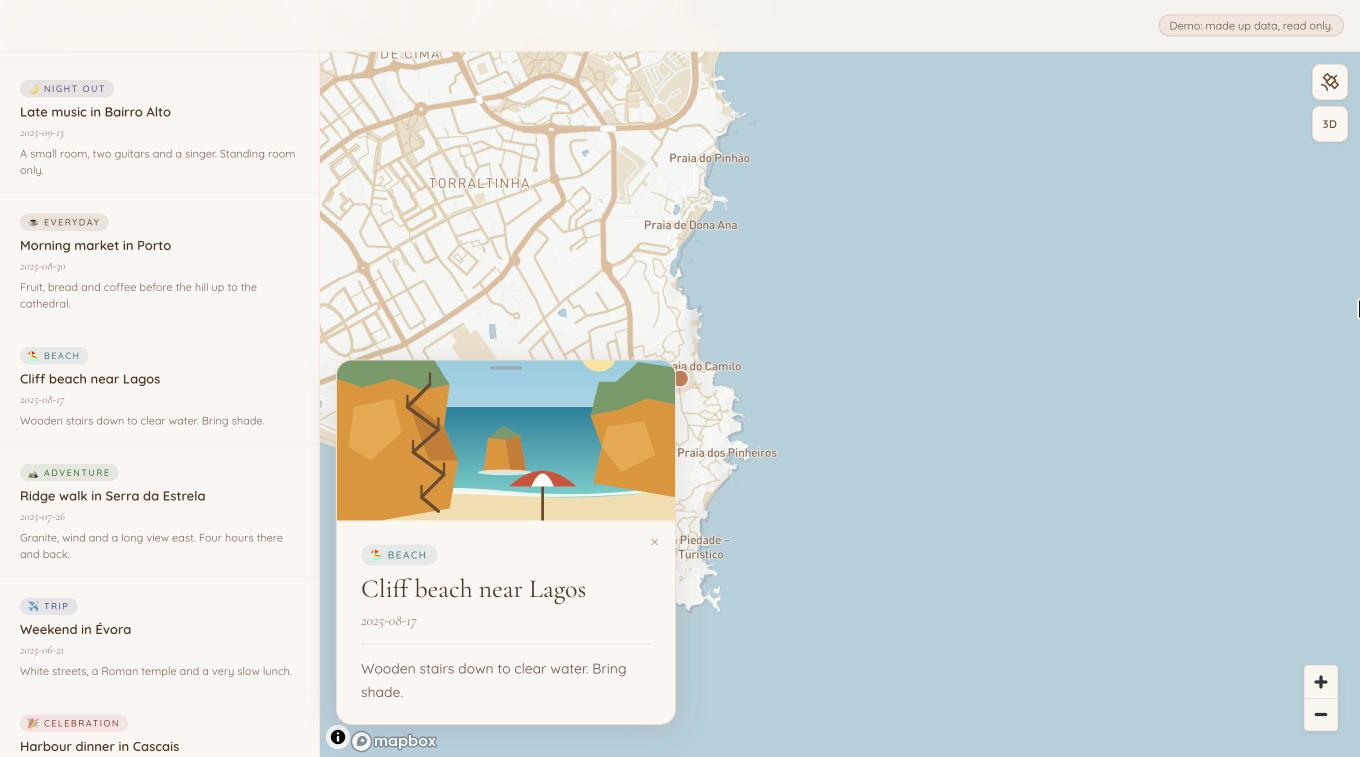
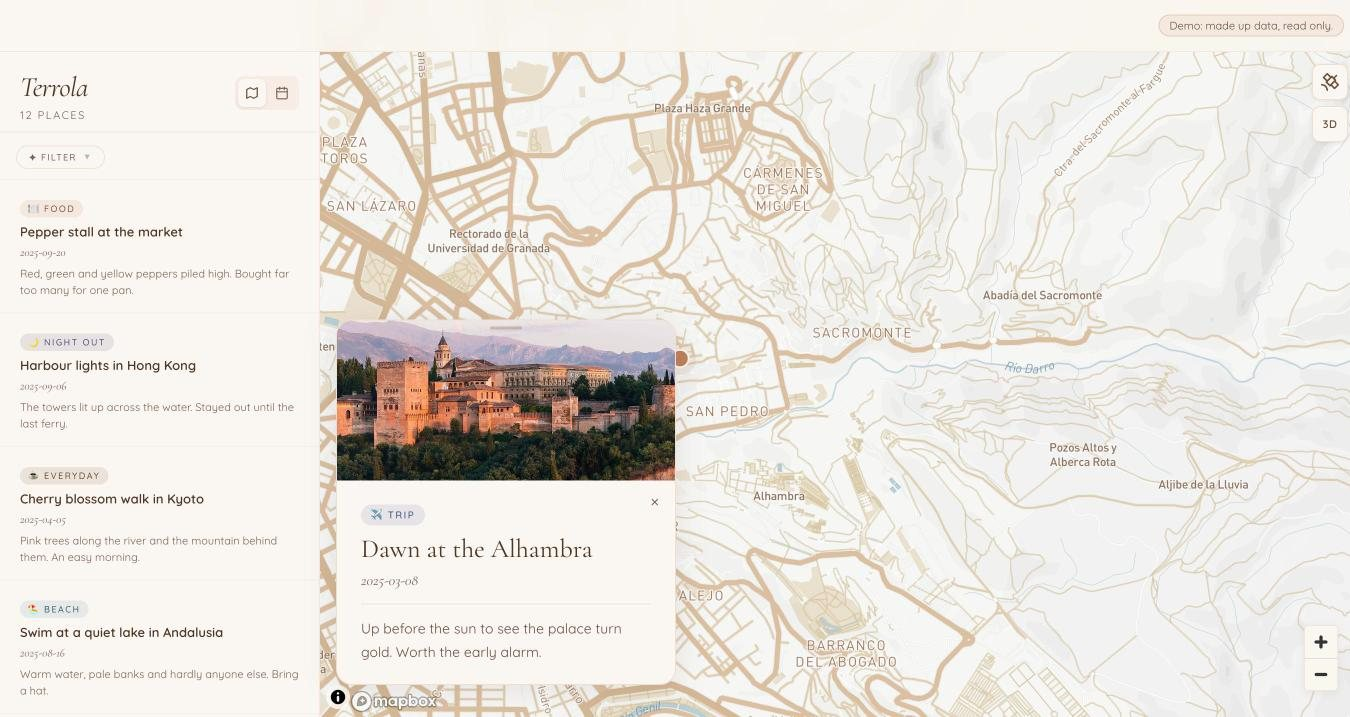
docs: the README picture shows the new demo, and the map opens with every pin in view (#49)
The old picture showed the drawn Portugal demo. The new one is the hosted demo on 2026-10-15 with the Alhambra card open (CC0 photo), the Mapbox wordmark and attribution button in frame. The start view moves west and out a little (centre -5, 28, zoom 1.3): at 1360 wide the list covered the Venezuela pins.

diff --git a/lib/constants.ts b/lib/constants.ts
@@ -1,7 +1,8 @@
 // Default map view: the world, from Venezuela in the west to Japan in the east, where
-// the demo's twelve places are (lib/demo/fixtures.ts). [lng, lat].
-export const DEFAULT_CENTER: [number, number] = [32, 28];
-export const DEFAULT_ZOOM = 1.4;
+// the demo's twelve places are (lib/demo/fixtures.ts). The centre sits west of the middle
+// of the places because the list covers the left of the map on wide screens. [lng, lat].
+export const DEFAULT_CENTER: [number, number] = [-5, 28];
+export const DEFAULT_ZOOM = 1.3;
 
 // South-west to north-east corner of the default view: every demo place with some room
 // around it. Used by the title-click view reset.

diff --git a/docs/ASSETS.md b/docs/ASSETS.md
@@ -34,7 +34,7 @@ longest side, with no metadata
 
 | file | what it is | source | licence |
 |------|------------|--------|---------|
-| `docs/demo.jpg` | Screenshot of the hosted demo, 1360 by 757, taken on 2026-10-13. Shown in the README | made for this project; the map in it is drawn by Mapbox | The app's own parts: MIT. The map: © Mapbox, © OpenStreetMap, shown with the Mapbox wordmark and attribution button in frame |
+| `docs/demo.jpg` | Screenshot of the hosted demo, 1350 by 717, taken on 2026-10-15 (UTC); the card photo is `public/demo/location-photos/00000000-0000-4000-8000-000000000006-1700000000000.jpg` (CC0). Shown in the README | made for this project; the map in it is drawn by Mapbox | The app's own parts: MIT. The map: © Mapbox, © OpenStreetMap, shown with the Mapbox wordmark and attribution button in frame |
 | `app/fonts/cormorant-garamond/CormorantGaramond-latin.woff2` | Cormorant Garamond, upright, weights 300 to 600, latin subset, woff2, 37,776 bytes | Google Fonts CSS API (https://fonts.googleapis.com/css2?family=Cormorant+Garamond:ital,wght@0,300..600;1,300..600&family=Quicksand:wght@300..600&family=Fraunces:ital,wght@1,800&display=swap), latin block: https://fonts.gstatic.com/s/cormorantgaramond/v21/co3bmX5slCNuHLi8bLeY9MK7whWMhyjYqXtKky2F7g.woff2 | SIL Open Font License 1.1 |
 | `app/fonts/cormorant-garamond/CormorantGaramond-Italic-latin.woff2` | Cormorant Garamond, italic, weights 300 to 600, latin subset, woff2, 39,304 bytes | Same CSS request, latin block: https://fonts.gstatic.com/s/cormorantgaramond/v21/co3ZmX5slCNuHLi8bLeY9MK7whWMhyjYrEtImSqn7B6D.woff2 | SIL Open Font License 1.1 |
 | `app/fonts/cormorant-garamond/OFL.txt` | Licence text for Cormorant Garamond, 4,387 bytes | https://raw.githubusercontent.com/google/fonts/67bc647ce1910e92f461bcc82aae30f21d21a9cc/ofl/cormorantgaramond/OFL.txt | SIL Open Font License 1.1 |

diff --git a/README.md b/README.md
@@ -7,9 +7,9 @@ a map with a warm palette. You host it yourself on Next.js, Supabase and Mapbox.
 
 Demo: <https://terrola.vercel.app>
 
-![The Terrola demo: the list of places, an open place card with a drawn picture, and the map](docs/demo.jpg)
+![The Terrola demo: the list of places, an open place card with a photo of the Alhambra, and the map](docs/demo.jpg)
 
-The hosted demo on 2026-10-13. Map: © Mapbox, © OpenStreetMap.
+The hosted demo on 2026-10-15 (UTC). Photo: CC0, from Wikimedia Commons. Map: © Mapbox, © OpenStreetMap.
 
 The demo is open and read only, on made up data: twelve invented visits to real places around
 the world, each with a free public domain photo taken there.
